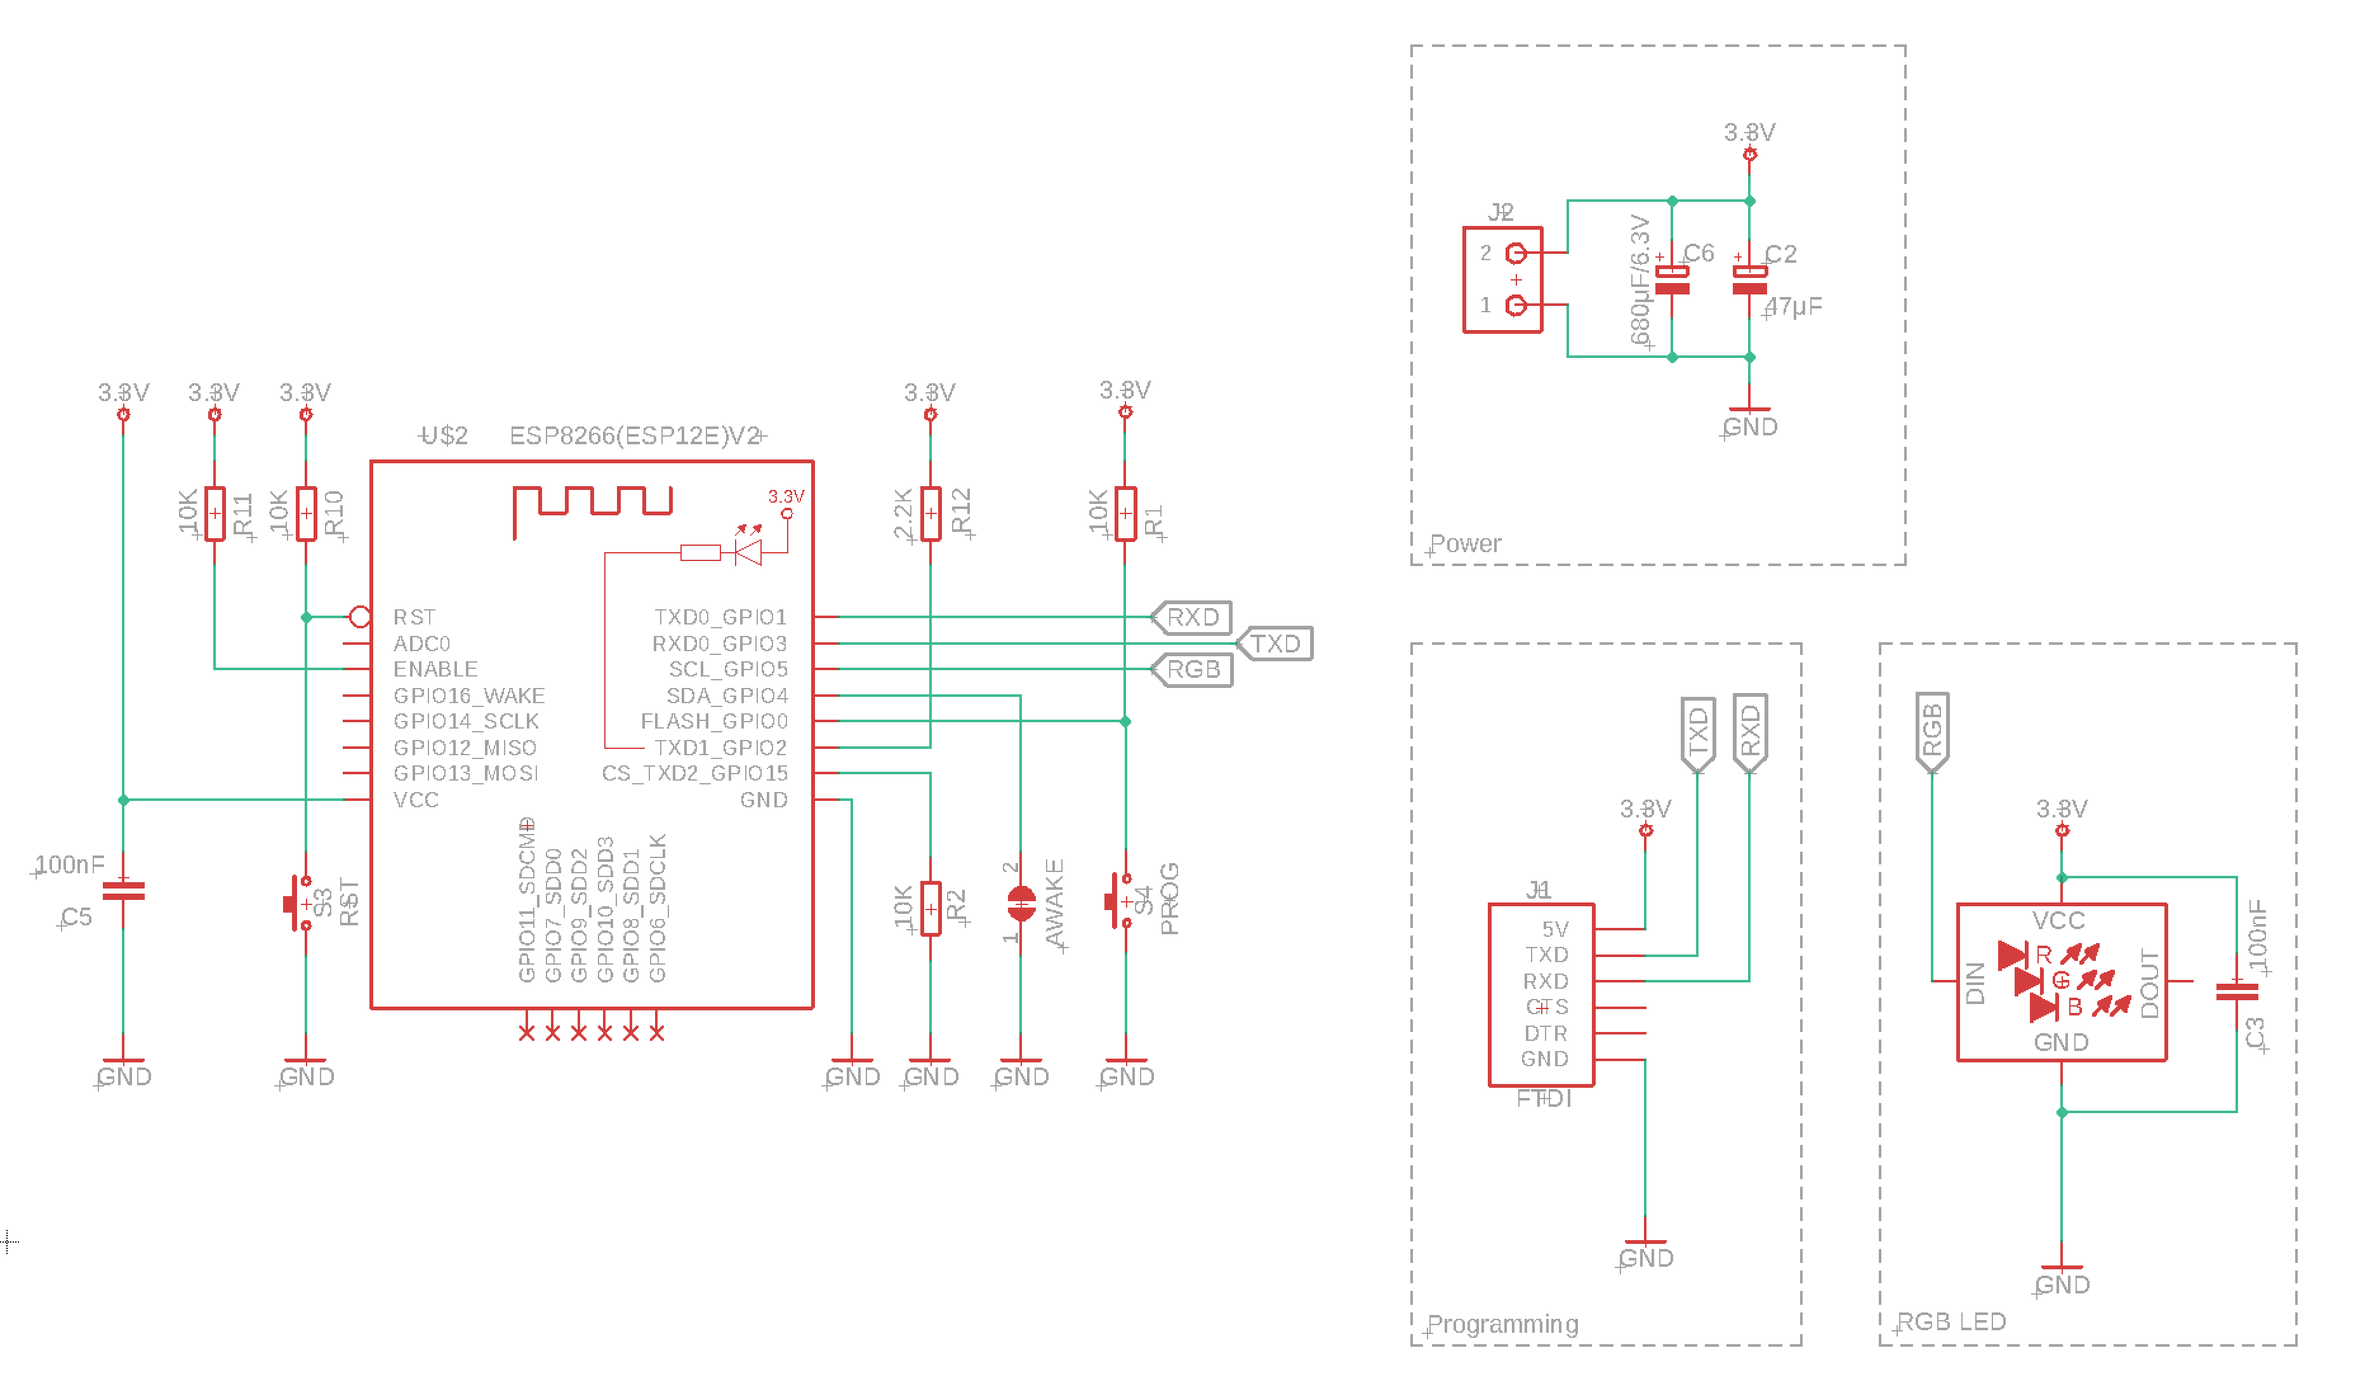
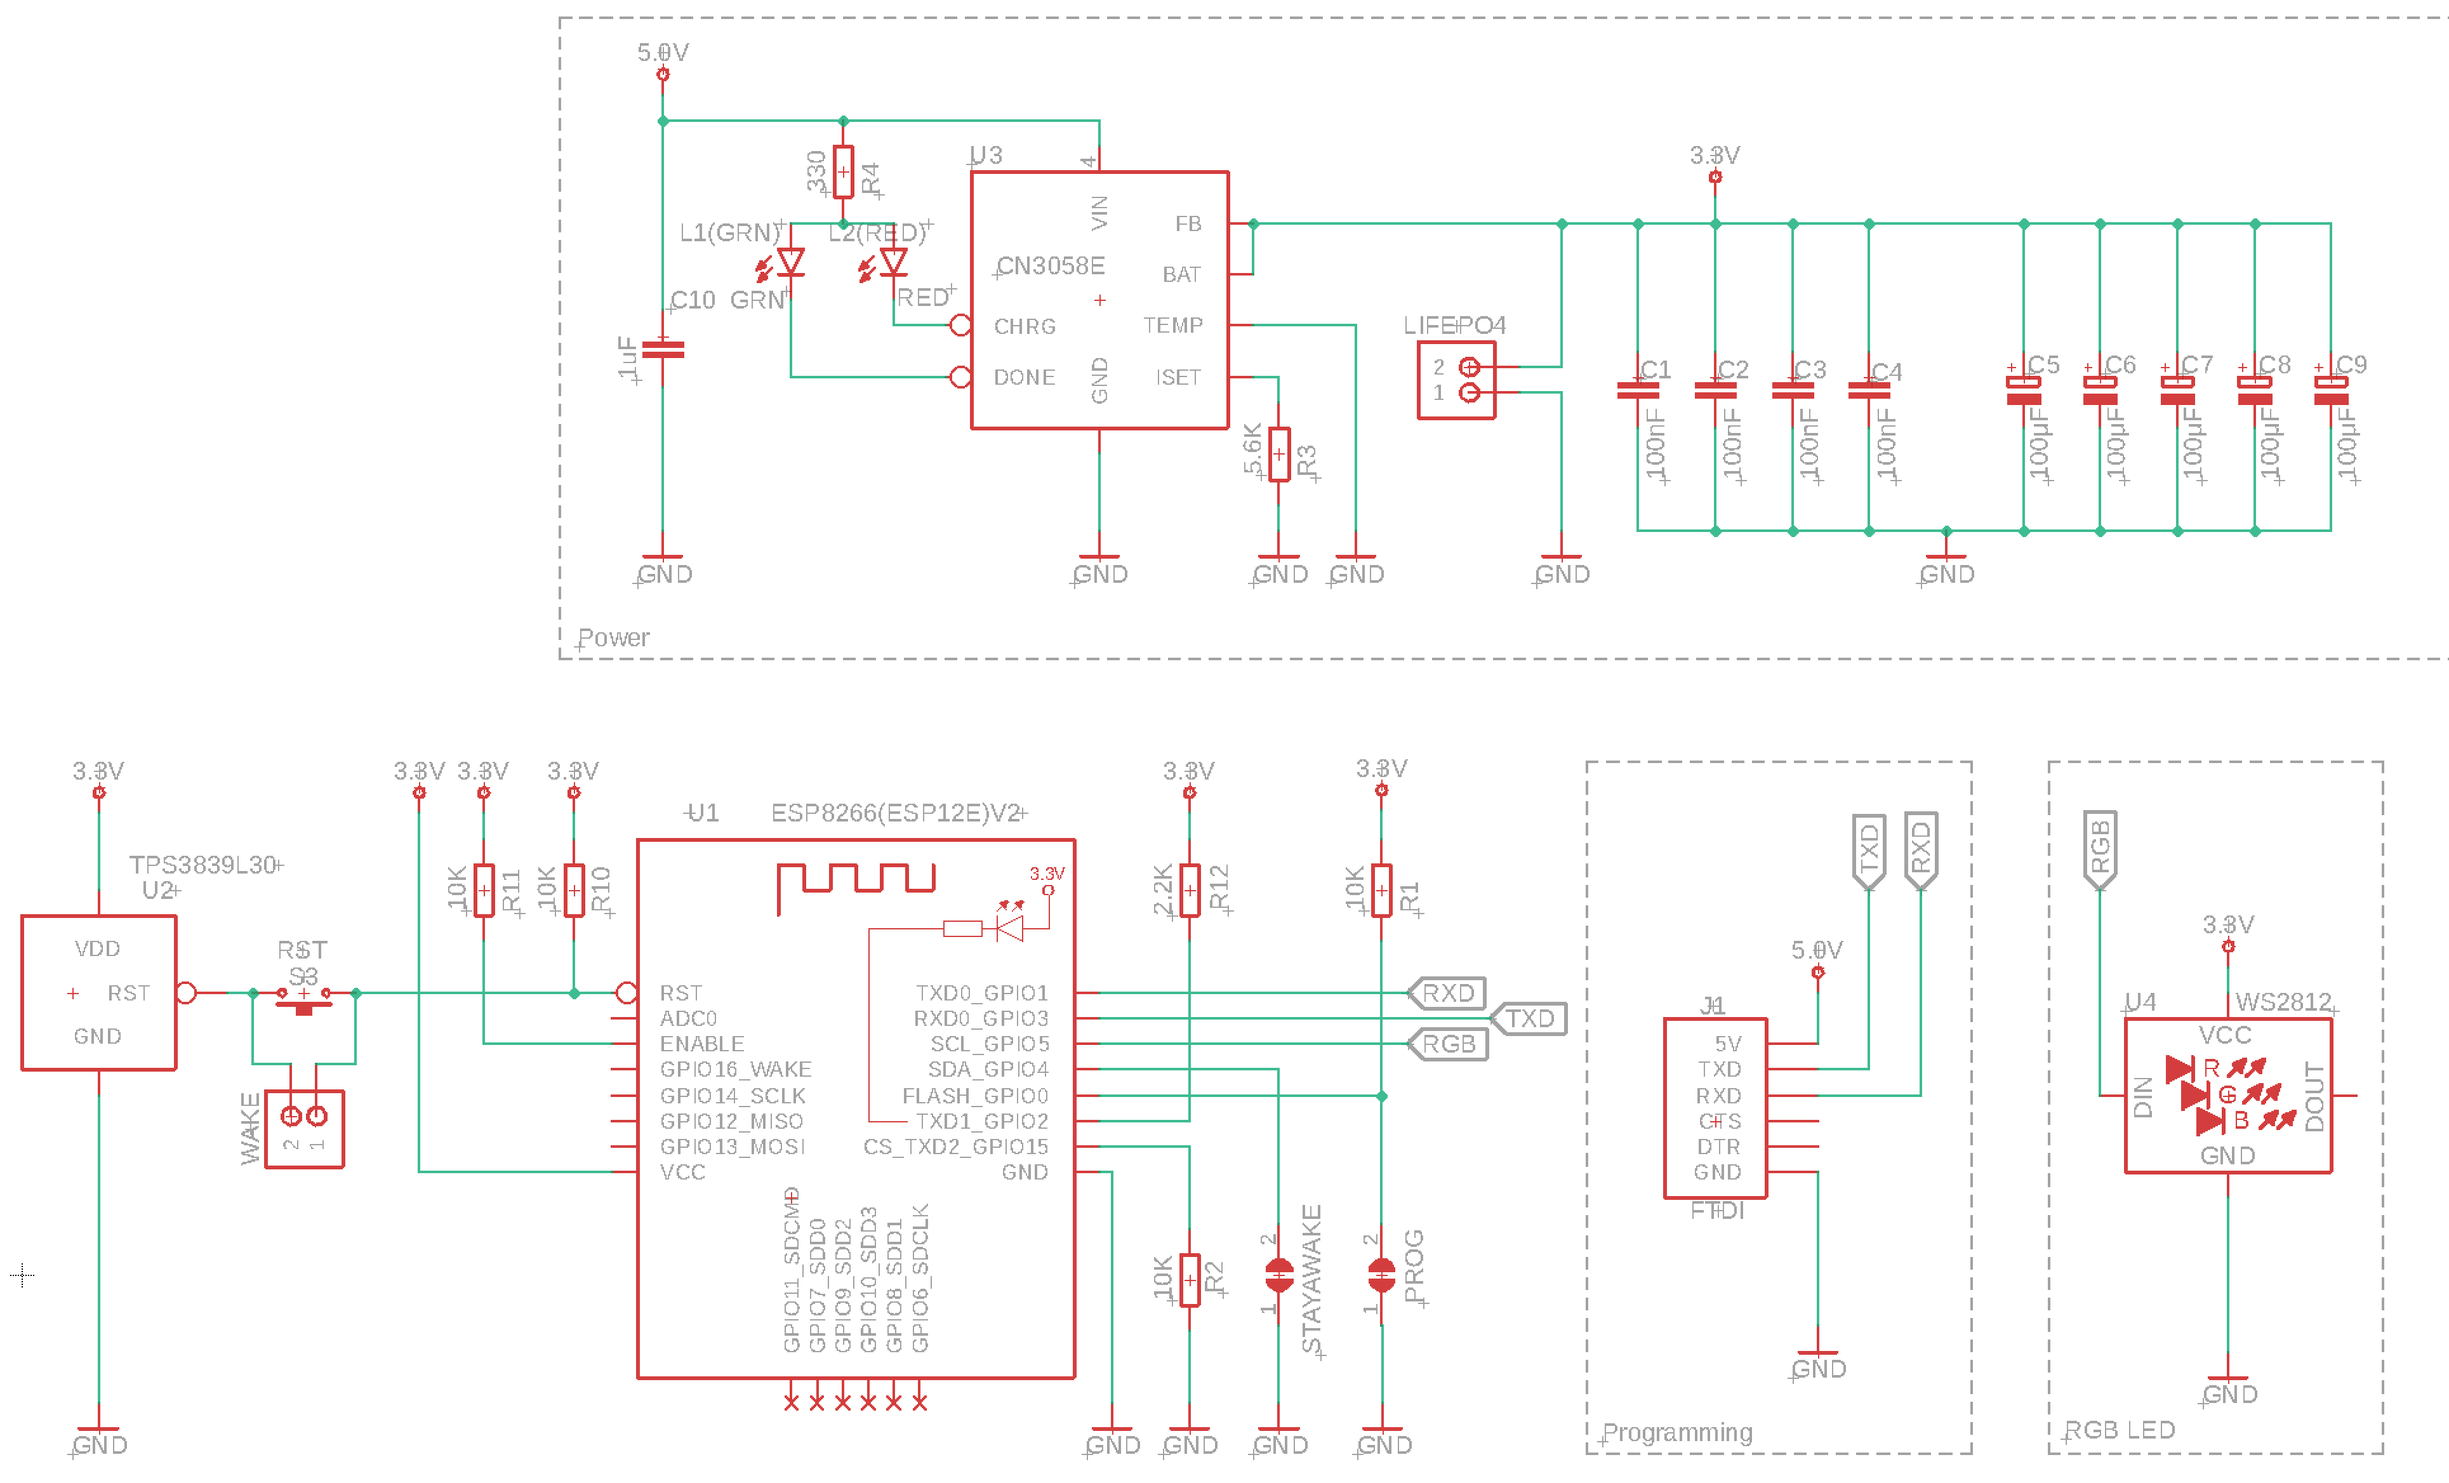
updated readme

diff --git a/README.md b/README.md
@@ -7,10 +7,11 @@ A simple ESP8266 based WiFi IoT button.
 ## Features
 
 - Powered by a single LiFePo4 battery
+- Onboarding charging circuit based on CN3058E powered via the FTDI connector's 5V
+- Charging current set as `I = 1.205/R3` (schematic lists 5.6K which is approx 200mA to keep things cool)
 - Contains an RGB led (to signal battery status when pressed)
 - Solder jumper to keep module awake (during debugging)
-- FTDI programming header
-- Puts the ESP in a super deep sleep after pressing the button to conserve battery power.
+- Puts the ESP in a deep sleep after pressing the button to conserve battery power.
 - Firmware sends a json formatted datagram (using UDP) to any configurable server (eg. nodred running on Raspi)
 - Fast WiFi connection establish techniques (e.g. fixed ip) to make button responsive
 
@@ -21,26 +22,32 @@ A simple ESP8266 based WiFi IoT button.
 - [x] LiFePO4 under voltage protection
 - [x] Replace the big elco cap to multiple tantilums to not be so high
 - [x] connect ftdi to 5v (its not 3.3) and use this as charging connector
-- [ ] update the esp part to include exclude routing zones
-- [ ] rgb led part no uxxx and type
-- [ ] charging chip no uxxx and type
-- [ ] adjust charging resistor
-- [ ] use power and signal nets in sch and then test if these are used for pcb routing
-- [ ] change push switch type?
-- [ ] battery + - on other sides of the pcb?
-- [ ] lets order a stencel for the PCB to test it :)
+- [x] rgb led part no uxxx and type
+- [x] charging chip no uxxx and type
+- [x] adjust charging resistor
+- [x] use power and signal nets in sch and then test if these are used for pcb routing
+- [x] lets order a stencel for the PCB to test it :)
+- [ ] OTA programming
   
 ### LiFePO4 charging
 
-- [ ] LiFePO4 bat charging circutry (add external connector)
-- [ ] FTDI power is always 5V, this could also be connected to the battery charging so its also possible to charge that way
-- [ ] mind back powering (no feeding power INTO a power input for somewhere else...) as we have 3 possible power sources (1)battery (2)charging connector (3)FTDI => include diodes everywhere?
+- [x] LiFePO4 bat charging circutry (add external connector)
+- [x] FTDI power is always 5V, this could also be connected to the battery charging so its also possible to charge that way
+- [x] mind back powering (no feeding power INTO a power input for somewhere else...) as we have 3 possible power sources (1)battery (2)charging connector (3)FTDI => include diodes everywhere?
 
 ## Will not do
-- [ ] We don't really want to pug a CH340 USB serial on it (to complex for once programming)
-- [ ] OTA programming
-- [ ] Don't go to sleep if (1)FTDI plugged-in (2)charing power applied
-
+- [x] We don't really want to pug a CH340 USB serial on it (to complex for once programming)
+- [x] Don't go to sleep if (1)FTDI plugged-in (2)charing power applied
+- [x] update the esp part to include exclude routing zones
+- [x] change push switch type?
 
 ## Schematic
 ![HixButon schematic](hardware/images/schematic.png)
+
+## PCB
+
+### Top
+![HixButon pbb top](hardware/images/pcb_top.png)
+
+### Bottom
+![HixButon pbb bottom](hardware/images/pcb_bottom.png)
